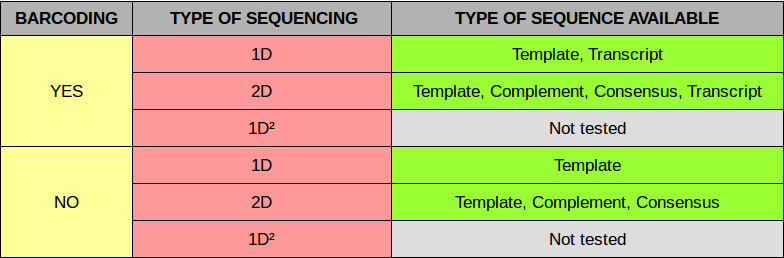
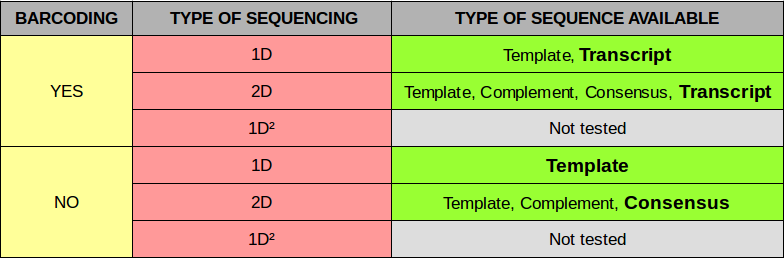
Re touch the type of sequencing screen

diff --git a/README.md b/README.md
@@ -165,6 +165,8 @@ The transcript sequence is the sequence result of the consensus sequence (in 2D)
 
 Here, for each sequecing configuration the sequence available for the fast5tofastq conversion.
 
+In bold, the type of sequencing that it's mostly interessant.
+
 <p align="center">
   <img src="images/type_of_sequencing_workflow.png"/>
 </p>
